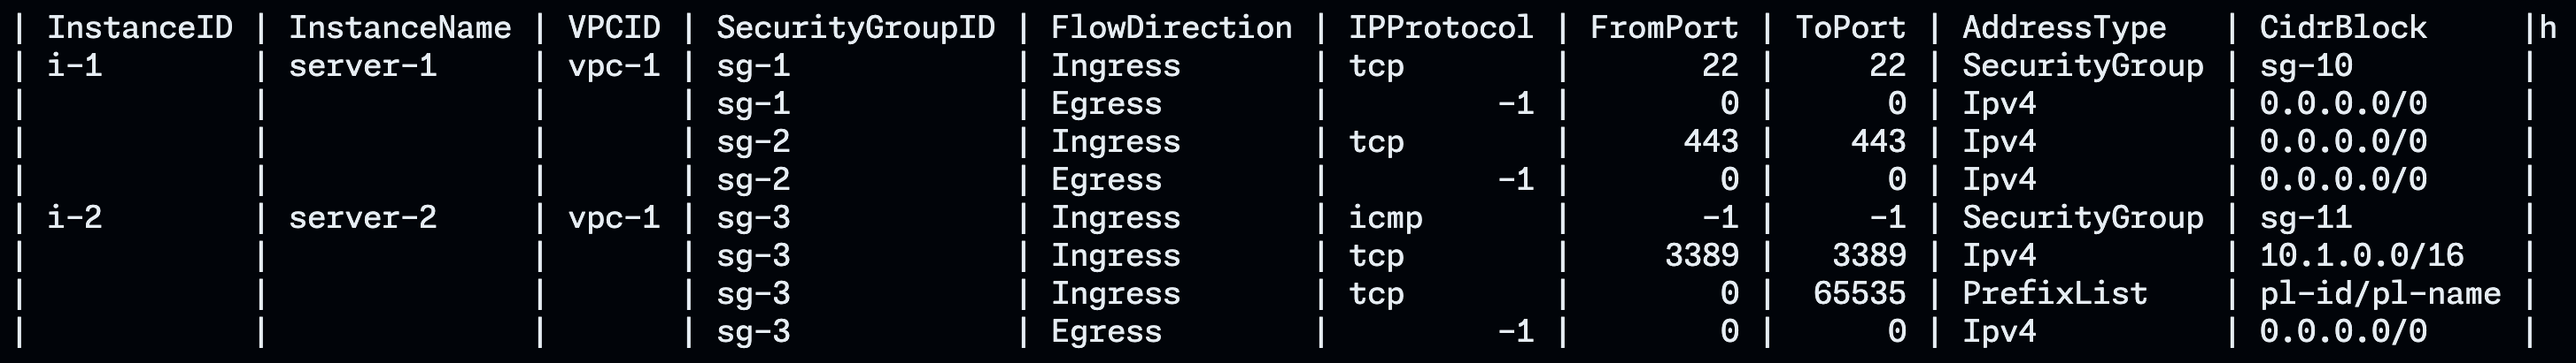
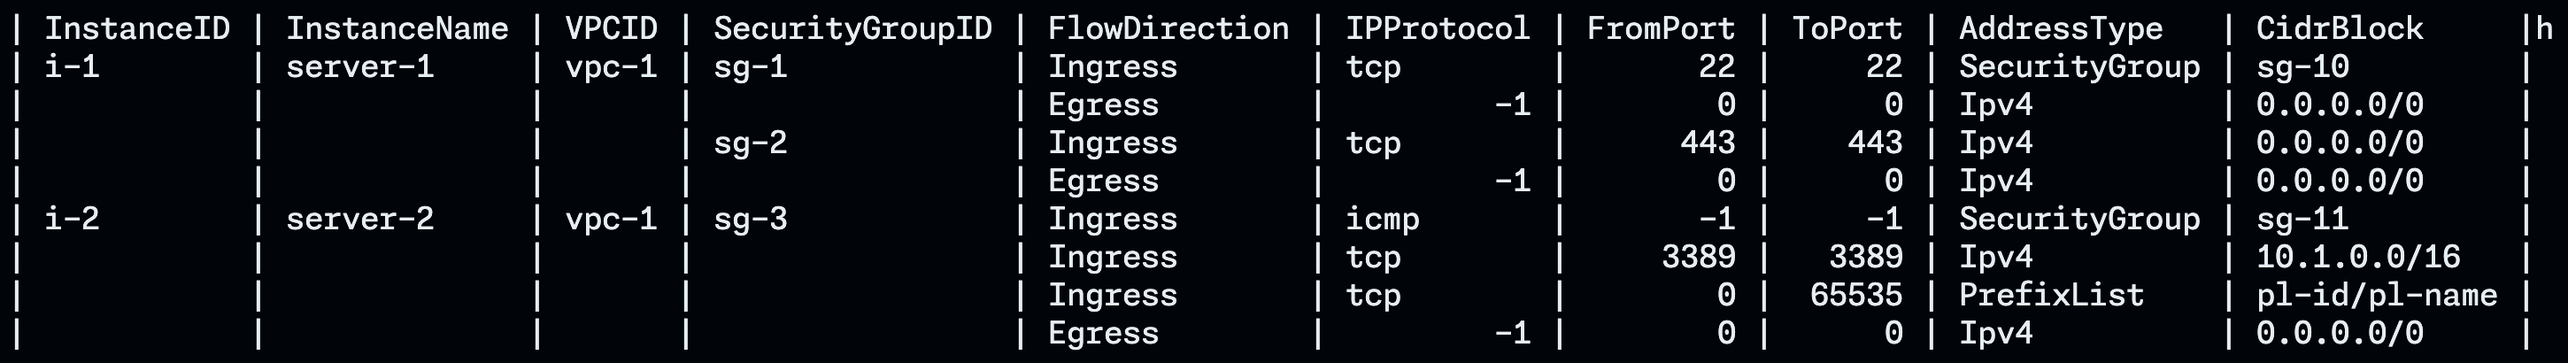
feat: add `FormatCompressedText` instead of `compress` flag

diff --git a/mintab_test.go b/mintab_test.go
@@ -139,6 +139,11 @@ func TestFormat_String(t *testing.T) {
 			want: "text",
 		},
 		{
+			name: "compressed",
+			o:    FormatCompressedText,
+			want: "compressed",
+		},
+		{
 			name: "markdown",
 			o:    FormatMarkdown,
 			want: "markdown",
@@ -150,7 +155,7 @@ func TestFormat_String(t *testing.T) {
 		},
 		{
 			name: "other",
-			o:    3,
+			o:    9,
 			want: "",
 		},
 	}
@@ -192,7 +197,6 @@ func TestNew(t *testing.T) {
 				columnWidths:          nil,
 				hasHeader:             true,
 				hasEscape:             false,
-				compress:              false,
 			},
 		},
 		{
@@ -207,7 +211,6 @@ func TestNew(t *testing.T) {
 					WithMergeFields([]int{0}),
 					WithIgnoreFields([]int{0}),
 					WithEscape(true),
-					WithCompress(true),
 				},
 			},
 			want: &Table{
@@ -224,7 +227,6 @@ func TestNew(t *testing.T) {
 				columnWidths:          nil,
 				hasHeader:             false,
 				hasEscape:             true,
-				compress:              true,
 			},
 		},
 	}
@@ -352,7 +354,6 @@ func TestTable_Out(t *testing.T) {
 		header       []string
 		data         [][]string
 		columnWidths []int
-		compress     bool
 	}
 	tests := []struct {
 		name   string
@@ -373,7 +374,6 @@ func TestTable_Out(t *testing.T) {
 					{"i-6", "server-6", "-", "tg-5\ntg-6\ntg-7\ntg-8"},
 				},
 				columnWidths: []int{10, 12, 10, 10},
-				compress:     false,
 			},
 			want: `+------------+--------------+------------+------------+
 | InstanceID | InstanceName | AttachedLB | AttachedTG |
@@ -401,7 +401,7 @@ func TestTable_Out(t *testing.T) {
 		{
 			name: "text_with_compressed",
 			fields: fields{
-				format: FormatText,
+				format: FormatCompressedText,
 				header: []string{"InstanceID", "InstanceName", "VPCID", "SecurityGroupID", "FlowDirection", "IPProtocol", "FromPort", "ToPort", "AddressType", "CidrBlock"},
 				data: [][]string{
 					{"i-1", "server-1", "vpc-1", "sg-1", "Ingress", "tcp", "22", "22", "SecurityGroup", "sg-10"},
@@ -414,7 +414,6 @@ func TestTable_Out(t *testing.T) {
 					{"", "", "", "", "Egress", "-1", "0", "0", "Ipv4", "0.0.0.0/0"},
 				},
 				columnWidths: []int{10, 12, 5, 15, 13, 10, 8, 6, 13, 13},
-				compress:     true,
 			},
 			want: `+------------+--------------+-------+-----------------+---------------+------------+----------+--------+---------------+---------------+
 | InstanceID | InstanceName | VPCID | SecurityGroupID | FlowDirection | IPProtocol | FromPort | ToPort | AddressType   | CidrBlock     |
@@ -446,7 +445,6 @@ func TestTable_Out(t *testing.T) {
 					{"i-6", "server-6", "\\-", "tg-5<br>tg-6<br>tg-7<br>tg-8"},
 				},
 				columnWidths: []int{10, 12, 12, 28},
-				compress:     false,
 			},
 			want: `| InstanceID | InstanceName | AttachedLB   | AttachedTG                   |
 |------------|--------------|--------------|------------------------------|
@@ -473,7 +471,6 @@ func TestTable_Out(t *testing.T) {
 					{"i-6", "server-6", "-", "tg-5&br;tg-6&br;tg-7&br;tg-8"},
 				},
 				columnWidths: []int{10, 12, 12, 28},
-				compress:     false,
 			},
 			want: `| InstanceID | InstanceName | AttachedLB   | AttachedTG                   |h
 | i-1        | server-1     | lb-1         | tg-1                         |
@@ -494,7 +491,6 @@ func TestTable_Out(t *testing.T) {
 			tr.header = tt.fields.header
 			tr.data = tt.fields.data
 			tr.columnWidths = tt.fields.columnWidths
-			tr.compress = tt.fields.compress
 			tr.setBorder()
 			tr.Out()
 			if !reflect.DeepEqual(buf.String(), tt.want) {
@@ -598,7 +594,6 @@ func TestTable_printData(t *testing.T) {
 		data         [][]string
 		format       Format
 		columnWidths []int
-		compress     bool
 	}
 	tests := []struct {
 		name   string
@@ -618,7 +613,6 @@ func TestTable_printData(t *testing.T) {
 				},
 				format:       FormatText,
 				columnWidths: []int{10, 12, 10, 10},
-				compress:     false,
 			},
 			want: `| i-1        | server-1     | lb-1       | tg-1       |
 +------------+--------------+------------+------------+
@@ -651,7 +645,6 @@ func TestTable_printData(t *testing.T) {
 				},
 				format:       FormatMarkdown,
 				columnWidths: []int{10, 12, 12, 28},
-				compress:     false,
 			},
 			want: `| i-1        | server-1     | lb-1         | tg-1                         |
 | i-2        | server-2     | lb-2<br>lb-3 | tg-2                         |
@@ -674,7 +667,6 @@ func TestTable_printData(t *testing.T) {
 				},
 				format:       FormatBacklog,
 				columnWidths: []int{10, 12, 12, 28},
-				compress:     false,
 			},
 			want: `| i-1        | server-1     | lb-1         | tg-1                         |
 | i-2        | server-2     | lb-2&br;lb-3 | tg-2                         |
@@ -697,9 +689,8 @@ func TestTable_printData(t *testing.T) {
 					{"", "", "", "", "Ingress", "tcp", "0", "65535", "PrefixList", "pl-id/pl-name"},
 					{"", "", "", "", "Egress", "-1", "0", "0", "Ipv4", "0.0.0.0/0"},
 				},
-				format:       FormatText,
+				format:       FormatCompressedText,
 				columnWidths: []int{10, 12, 5, 15, 13, 10, 8, 6, 13, 13},
-				compress:     true,
 			},
 			want: `| i-1        | server-1     | vpc-1 | sg-1            | Ingress       | tcp        |       22 |     22 | SecurityGroup | sg-10         |
 |            |              |       |                 | Egress        |         -1 |        0 |      0 | Ipv4          | 0.0.0.0/0     |
@@ -720,7 +711,6 @@ func TestTable_printData(t *testing.T) {
 			tr.data = tt.fields.data
 			tr.format = tt.fields.format
 			tr.columnWidths = tt.fields.columnWidths
-			tr.compress = tt.fields.compress
 			tr.setBorder()
 			tr.printData()
 			if !reflect.DeepEqual(buf.String(), tt.want) {

diff --git a/mintab.go b/mintab.go
@@ -26,14 +26,16 @@ type Format int
 
 // Enumeration of supported output formats.
 const (
-	FormatText     Format = iota // Plain text format.
-	FormatMarkdown               // Markdown format.
-	FormatBacklog                // Backlog-specific format.
+	FormatText           Format = iota // Plain text format.
+	FormatCompressedText               // Compressed plain text format.
+	FormatMarkdown                     // Markdown format.
+	FormatBacklog                      // Backlog-specific format.
 )
 
 // Formats holds the string representations of each format constant.
 var Formats = []string{
 	"text",
+	"compressed",
 	"markdown",
 	"backlog",
 }
@@ -63,7 +65,6 @@ type Table struct {
 	columnWidths          []int           // Calculated max width of each column.
 	hasHeader             bool            // Indicates if the header should be rendered.
 	hasEscape             bool            // Indicates if escaping should be performed.
-	compress              bool
 }
 
 // New instantiates a new Table with the specified writer and options.
@@ -141,12 +142,6 @@ func WithEscape(has bool) Option {
 	}
 }
 
-func WithCompress(has bool) Option {
-	return func(t *Table) {
-		t.compress = has
-	}
-}
-
 // Load validates the input and converts it into table data.
 // Returns an error if the input is not a slice or if it's empty.
 func (t *Table) Load(input any) error {
@@ -188,7 +183,8 @@ func (t *Table) Load(input any) error {
 // It supports markdown and backlog formats for easy copying and pasting.
 func (t *Table) Out() {
 	if t.hasHeader {
-		if t.format == FormatText {
+		switch t.format {
+		case FormatText, FormatCompressedText:
 			t.printBorder()
 		}
 		t.printHeader()
@@ -197,7 +193,8 @@ func (t *Table) Out() {
 		t.printBorder()
 	}
 	t.printData()
-	if t.format == FormatText {
+	switch t.format {
+	case FormatText, FormatCompressedText:
 		t.printBorder()
 	}
 	fmt.Fprintf(t.writer, "\n")
@@ -223,13 +220,12 @@ func (t *Table) printHeader() {
 // printData renders the table data with dynamic conditional borders.
 func (t *Table) printData() {
 	for ri, row := range t.data {
-		if ri > 0 && t.format == FormatText {
-			if t.compress {
-				if row[0] != "" {
-					t.printBorder()
-				}
-			} else {
+		if ri > 0 {
+			if t.format == FormatText {
 				t.printDataBorder(row)
+			}
+			if t.format == FormatCompressedText && row[0] != "" {
+				t.printBorder()
 			}
 		}
 		lines := 1
@@ -362,9 +358,12 @@ func (t *Table) setData(v reflect.Value) error {
 
 // setBorder computes the table border string based on the calculated column widths.
 func (t *Table) setBorder() {
-	sep := "+"
-	if t.format != FormatText {
+	var sep string
+	switch t.format {
+	case FormatMarkdown, FormatBacklog:
 		sep = "|"
+	default:
+		sep = "+"
 	}
 	t.builder.Reset()
 	for _, width := range t.columnWidths {

diff --git a/_examples/main.go b/_examples/main.go
@@ -348,18 +348,10 @@ func main() {
 		+------------+--------------+-------+-----------------+---------------+------------+----------+--------+---------------+---------------+
 	*/
 
-	/*
-		Compress only when text format
-	*/
-
-	fmt.Println("/* Compress only when text format */")
-	fmt.Println()
-
-	fmt.Println("// format: text")
+	fmt.Println("// format: compressed")
 	fmt.Println("// mergeFields: []int{0, 1, 2, 3}")
-	fmt.Println("// compress: true")
 	fmt.Println()
-	table = mintab.New(os.Stdout, mintab.WithMergeFields([]int{0, 1, 2, 3}), mintab.WithCompress(true))
+	table = mintab.New(os.Stdout, mintab.WithFormat(mintab.FormatCompressedText), mintab.WithMergeFields([]int{0, 1, 2, 3}))
 	if err := table.Load(s2); err != nil {
 		log.Fatal(err)
 	}
@@ -565,4 +557,16 @@ func main() {
 		| i-2        | server-2     | vpc-1 | sg-3            | Egress        |         -1 |        0 |      0 | Ipv4          | 0.0.0.0/0     |
 		+------------+--------------+-------+-----------------+---------------+------------+----------+--------+---------------+---------------+
 	*/
+
+	table = mintab.New(os.Stdout, mintab.WithFormat(mintab.FormatMarkdown), mintab.WithMergeFields([]int{0, 1, 2, 3}))
+	if err := table.Load(s2); err != nil {
+		log.Fatal(err)
+	}
+	table.Out()
+
+	table = mintab.New(os.Stdout, mintab.WithFormat(mintab.FormatBacklog), mintab.WithMergeFields([]int{0, 1, 2, 3}))
+	if err := table.Load(s2); err != nil {
+		log.Fatal(err)
+	}
+	table.Out()
 }

diff --git a/README.md b/README.md
@@ -24,7 +24,7 @@ Text merged
 
 ![text_merged](_assets/text_merged.png)
 
-Text compressed (only when text)
+Compressed-text merged
 
 ![text_compressed](_assets/text_compressed.png)
 
